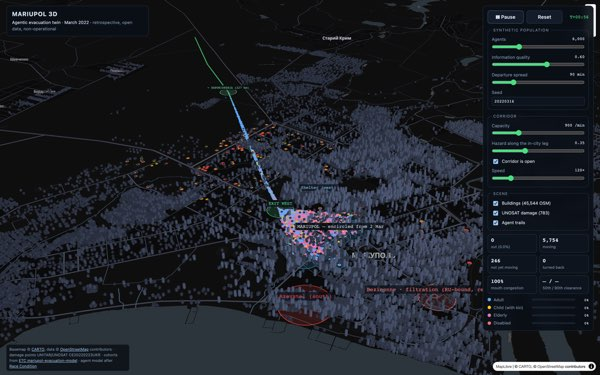
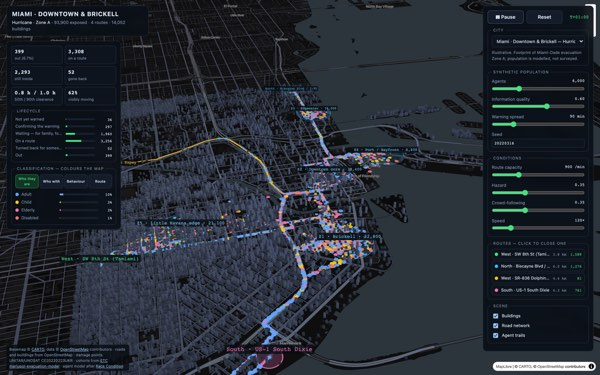
Mariupol 3D is now four cities
Lower Manhattan, the Las Vegas Strip and Miami joined the twin, each with its
real road network and road-routed evacuation routes, and the agents gained a
travel-unit and behaviour typology. Copy and poster updated to match.

diff --git a/src/content/site.ts b/src/content/site.ts
@@ -176,9 +176,9 @@ export const researchAreas: ResearchArea[] = [
         publication: "/publications/mariupol-severity-model",
       },
       {
-        name: "Mariupol 3D — Agentic Evacuation Twin",
+        name: "Mariupol 3D — Agentic Evacuation Twins",
         summary:
-          "A browser 3-D twin of Mariupol carrying a synthetic population out of the city along the March 2022 humanitarian corridor. Every agent is expanded from the severity model's published zone cohorts — its walking speed set by whether it is a child, an elderly person, or someone with a disability, and its departure time emerging from how well it knows the corridor's status, how much risk it will accept, and how badly its own block is already damaged. The question it answers is not how many people got out, but how long until most of them did, and who is still inside when the corridor closes.",
+          "Browser 3-D twins of four cities — Mariupol under siege, Lower Manhattan in a storm surge, the Las Vegas Strip, hurricane-zone Miami — each carrying a synthetic population that has to get out. Every city ships its real OpenStreetMap road network and four or five evacuation routes traced over it, and every agent is classified on three axes: who they are, who they travel with (alone, family, ad-hoc group, or an institution that cannot self-evacuate), and how they behave (prompt, information-seeking, wait-and-see, reluctant to leave, or a returner who goes back). The question it answers is not how many people got out, but how long until most of them did, who is still inside when a route closes, and what happens when everyone picks the same road.",
         status: "Active",
         repo: "https://github.com/Ethical-Tech-CoLab/mariupol-3d",
         demo: "https://ethical-tech-colab.github.io/mariupol-3d/",
@@ -1139,13 +1139,13 @@ export const products: Product[] = [
     publication: "/publications/mariupol-severity-model",
   },
   {
-    name: "Mariupol 3D — Agentic Evacuation Twin",
+    name: "Mariupol 3D — Agentic Evacuation Twins",
     repoName: "mariupol-3d",
     term: "Summer 2026",
     repo: "https://github.com/Ethical-Tech-CoLab/mariupol-3d",
     demo: "https://ethical-tech-colab.github.io/mariupol-3d/",
     blurb:
-      "A 3-D Mariupol you can fly through, with a synthetic population walking the March 2022 corridor out of it. The city is real — 45,544 OpenStreetMap buildings and 783 UNOSAT-verified damage points — and every agent is expanded from the severity model\u2019s published zone cohorts, so a run is a scale model of the 37,663 people actually exposed. Slow the corridor down and watch who is left inside: the elderly and the disabled clear last, and agents who do not know whether the corridor is open turn back at its mouth.",
+      "Four 3-D cities you can fly through, each with a synthetic population trying to leave: Mariupol under siege, Lower Manhattan in a storm surge, the Las Vegas Strip, hurricane-zone Miami. The geography is real \u2014 OpenStreetMap buildings, each city\u2019s road network, and four or five evacuation routes traced over it rather than drawn by hand. Agents are classified by who they are, who they travel with, and how they behave, then run a full lifecycle from unwarned to out. Institutional groups take nearly twice as long as people travelling alone; raise the hazard and the reluctant finally leave, which makes the median clearance time worse, not better.",
     language: "JavaScript",
     theme: "Evacuation",
   },
